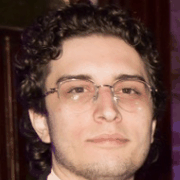
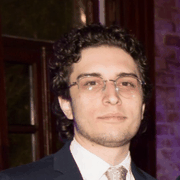
Photo beside the name in the top bar; square photos; tab title "Profile - Salvador Ferreira"
The tab icon is the photo square and framed as in the welcome card, not a round
close-up. The photos in the welcome card and the List are square too.

diff --git a/src/styles/global.css b/src/styles/global.css
@@ -71,7 +71,7 @@ button:focus-visible {
   box-sizing: border-box;
   display: grid;
   grid-template-columns: auto 1fr;
-  align-items: baseline;
+  align-items: center;
   gap: 4px 16px;
   width: min(560px, calc(100% - 28px));
   padding: 11px 16px 12px;
@@ -83,6 +83,9 @@ button:focus-visible {
 }
 
 .topbar .name {
+  display: inline-flex;
+  align-items: center;
+  gap: 10px;
   font: 18px/1.2 var(--serif);
   color: var(--paper);
   text-decoration: none;
@@ -399,7 +402,15 @@ button:focus-visible {
   flex: none;
   width: 64px;
   height: 64px;
-  border-radius: 50%;
+  border-radius: 6px;
+  object-fit: cover;
+}
+
+.topbar-photo {
+  flex: none;
+  width: 30px;
+  height: 30px;
+  border-radius: 4px;
   object-fit: cover;
 }
 

diff --git a/src/lib/places.ts b/src/lib/places.ts
@@ -22,13 +22,9 @@ function currentJob(places: Entry[]): Entry | undefined {
   return places.find((e) => e.data.category === "job" && e.data.period?.includes("Present") && e.data.title === "Deloitte");
 }
 
-/**
- * Title of the home page, for search results and link previews: the name, the current
- * position (from its content file) and the city.
- */
+/** Title of the home page (the browser tab, search results and link previews). */
 export async function getHomeTitle(): Promise<string> {
-  const role = currentJob(await getPlaces())?.data.role?.split(" · ")[0];
-  return role ? `${SITE_NAME} — ${role}, Lisbon` : SITE_NAME;
+  return `Profile - ${SITE_NAME}`;
 }
 
 export function pathOf(entry: Entry): string {
